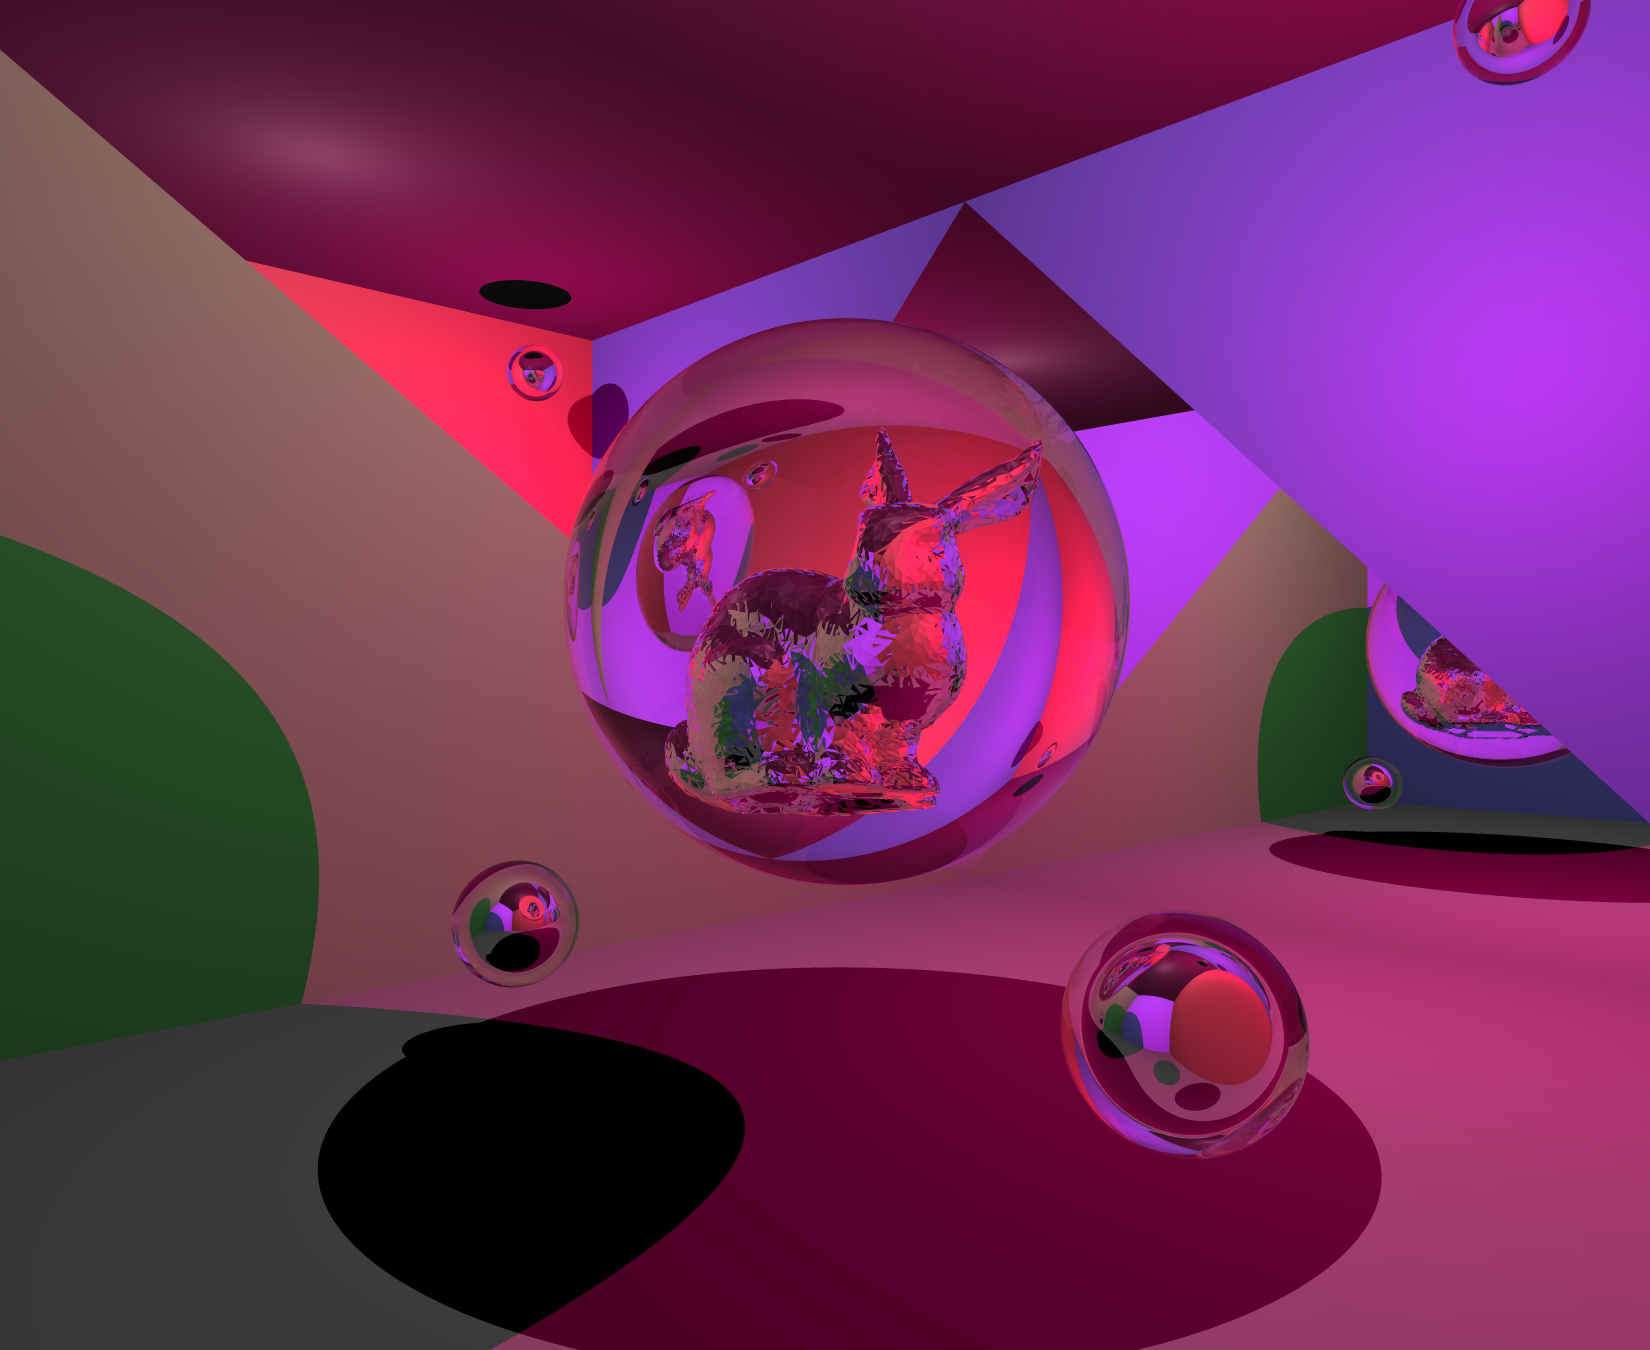
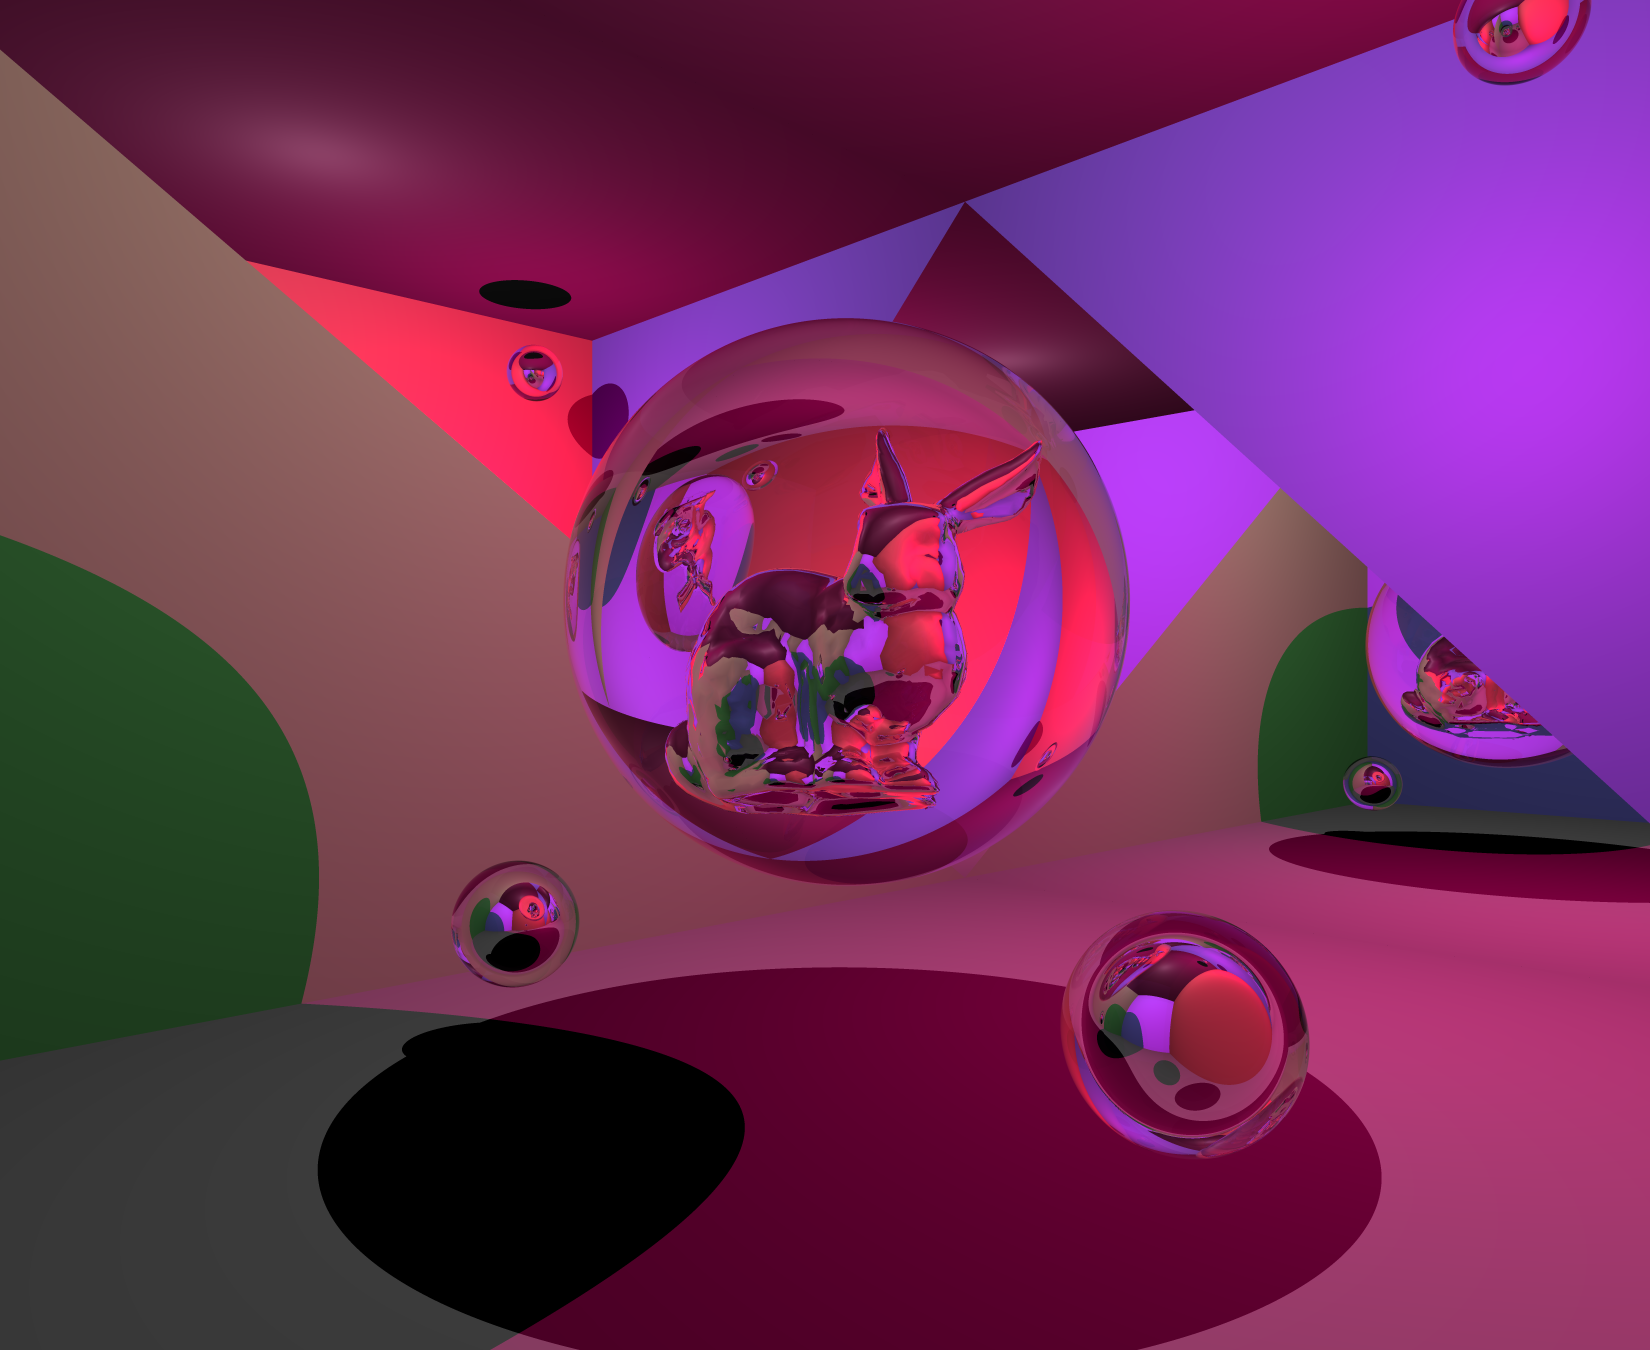
Fixed Normal Interpolation and commenting

Changed region(s): [[0.4018, 0.3111, 0.6491, 0.6222], [0.8345, 0.4978, 0.9273, 0.56]]

diff --git a/src/scene/primitives/Triangle.cs b/src/scene/primitives/Triangle.cs
@@ -74,6 +74,7 @@ namespace RayTracer
             if (faceNormal.Dot(ray.Direction) < 0 || isRefractive) 
             {
                 // Calculate distanace from ray to plane that the triangle sits on
+                // Taken from plane intersection method
                 double t = faceNormal.Dot(v0 - ray.Origin) / ray.Direction.Dot(faceNormal);
                 
                 // if t < 0, the triangle is being hit from behind. Back face culling is used for objects
@@ -82,23 +83,26 @@ namespace RayTracer
 
                 Vector3 point = ray.Origin + t * ray.Direction;
 
+                // Scratchapixel - Barycentric coordinates
+                // https://www.scratchapixel.com/lessons/3d-basic-rendering/ray-tracing-rendering-a-triangle/barycentric-coordinates#:~:text=To%20compute%20the%20position%20of,(barycentric%20coordinates%20are%20normalized)
                 // Finding if plane intersection point lies in the triangle
-                // Using inside Out test
-                double _v = faceNormal.Dot((v1 - v0).Cross(point - v0));
+                // Easier to divide later each component by |facenormal|^2 later
                 double _u = faceNormal.Dot((v2 - v1).Cross(point - v1));
-                double _w = faceNormal.Dot((v0 - v2).Cross(point - v2));
+                double _v = faceNormal.Dot((v0 - v2).Cross(point - v2));
+                double _w = faceNormal.Dot((v1 - v0).Cross(point - v0));
 
-                if ( _v >= 0 && _u >= 0 && _w >= 0 )
+                // Inside out test
+                if ( _u >= 0 && _v >= 0 && _w >= 0 )
                 {
                     if(this.hasVertexNormals) 
                     {
                         // Calculate Barycentric Coordinates of point of the triangle
                         double triAreaSq = faceNormal.Dot(faceNormal);
-                        double v = _v / triAreaSq;
                         double u = _u / triAreaSq;
+                        double v = _v / triAreaSq;
 
                         // Find the interpolated normal using Barycentric Coordinates
-                        Vector3 interpolatedNormal = v * n0 + u * n1 + (1 - u - v) * n2;
+                        Vector3 interpolatedNormal = u * n0 + v * n1 + (1 - u - v) * n2;
 
                         return new RayHit(point, interpolatedNormal.Normalized(), ray.Direction, this.material);   
                     }

diff --git a/src/extensions/ObjModel.cs b/src/extensions/ObjModel.cs
@@ -144,6 +144,9 @@ namespace RayTracer
             return BoundingBoxHit(ray) ? ClosestTriangle(ray): null;
         }
 
+        // Scratchapixel - Ray-Box Intersection
+        // https://www.scratchapixel.com/lessons/3d-basic-rendering/minimal-ray-tracer-rendering-simple-shapes/ray-box-intersection
+        // Only necessary parts used because I don't need to calculate the hit point of the bounding Volumne
         private bool BoundingBoxHit(Ray ray) {
 
             double tx0;
@@ -153,8 +156,10 @@ namespace RayTracer
             double tz0;
             double tz1;
             
+            // Since AABB is oriented in world space, max and min bounds
+            // are relative to the ray direction, so we have to calculate them
+            // accordingly for each axis
             double inverseDX = 1 / ray.Direction.X;
-
             if (ray.Direction.X >= 0) 
             {
                 tx0 = (this.bMin.X - ray.Origin.X) * inverseDX;
@@ -178,8 +183,11 @@ namespace RayTracer
                 ty1 = (this.bMin.Y - ray.Origin.Y) * inverseDY;
             }
 
+            // Suggests that the ray is hitting outside the bounding volume
             if (tx0 > ty1 || tx1 < ty0) return false;
-
+            
+            // One of the scalars might be larger that the other, the largest
+            // scalar can be used to actually calculate the hit point
             if (tx0 < ty0) tx0 = ty0;
             if (tx1 > ty1) tx1 = ty1;
 
@@ -195,8 +203,10 @@ namespace RayTracer
                 tz1 = (this.bMin.Z - ray.Origin.Z) * inverseDZ;
             }
             
+            // Same as with X and Y
             if (tx0 > tz1 || tx1 < tz0) return false;
 
+            // no need to calculae hit point so we just return
             return true;
         }
 

diff --git a/src/scene/primitives/Sphere.cs b/src/scene/primitives/Sphere.cs
@@ -30,6 +30,10 @@ namespace RayTracer
         /// </summary>
         /// <param name="ray">Ray to check</param>
         /// <returns>Hit data (or null if no intersection)</returns>
+        
+        // Ray-Sphere Intersection with Simple Math
+        // http://kylehalladay.com/blog/tutorial/math/2013/12/24/Ray-Sphere-Intersection.html
+        // Altered to accomodate Refraction (internal ray-sphere intersections)
         public RayHit Intersect(Ray ray)
         {
             Vector3 Orig2Cent = this.center - ray.Origin;

diff --git a/src/scene/primitives/Plane.cs b/src/scene/primitives/Plane.cs
@@ -42,6 +42,7 @@ namespace RayTracer
             if (this.normal.Dot(direction) < 0 || isRefractive) 
             {
                 // Calculate the distance to the plane
+                // Taken from University Slides
                 double t = this.normal.Dot(this.center - origin) / direction.Dot(normal);
                 Vector3 intersect = origin + t*direction;
 
